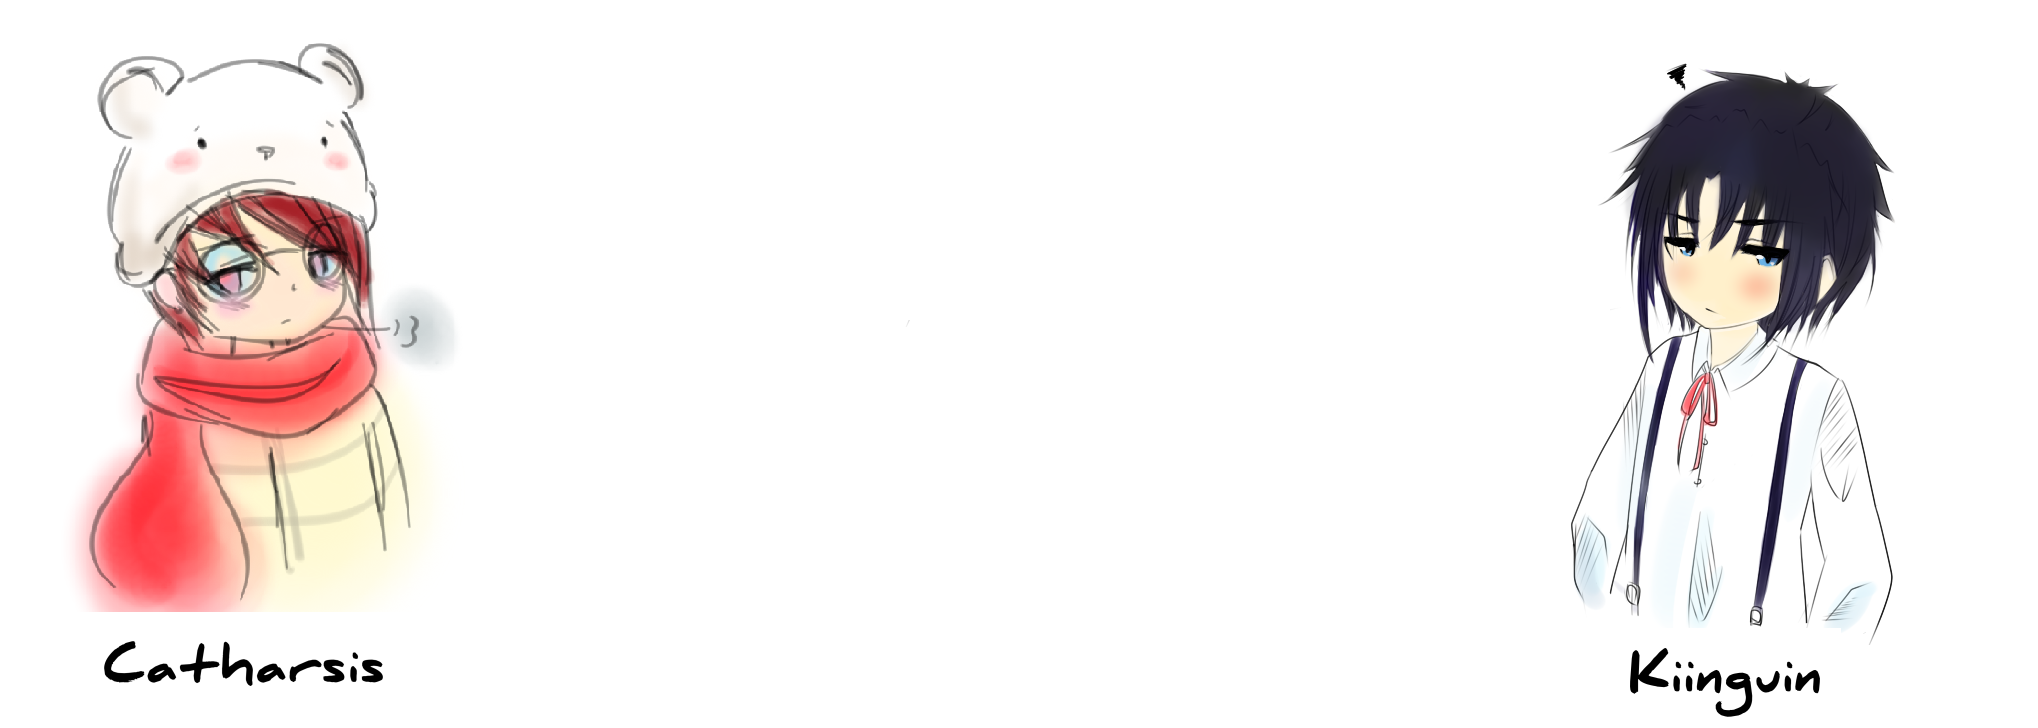
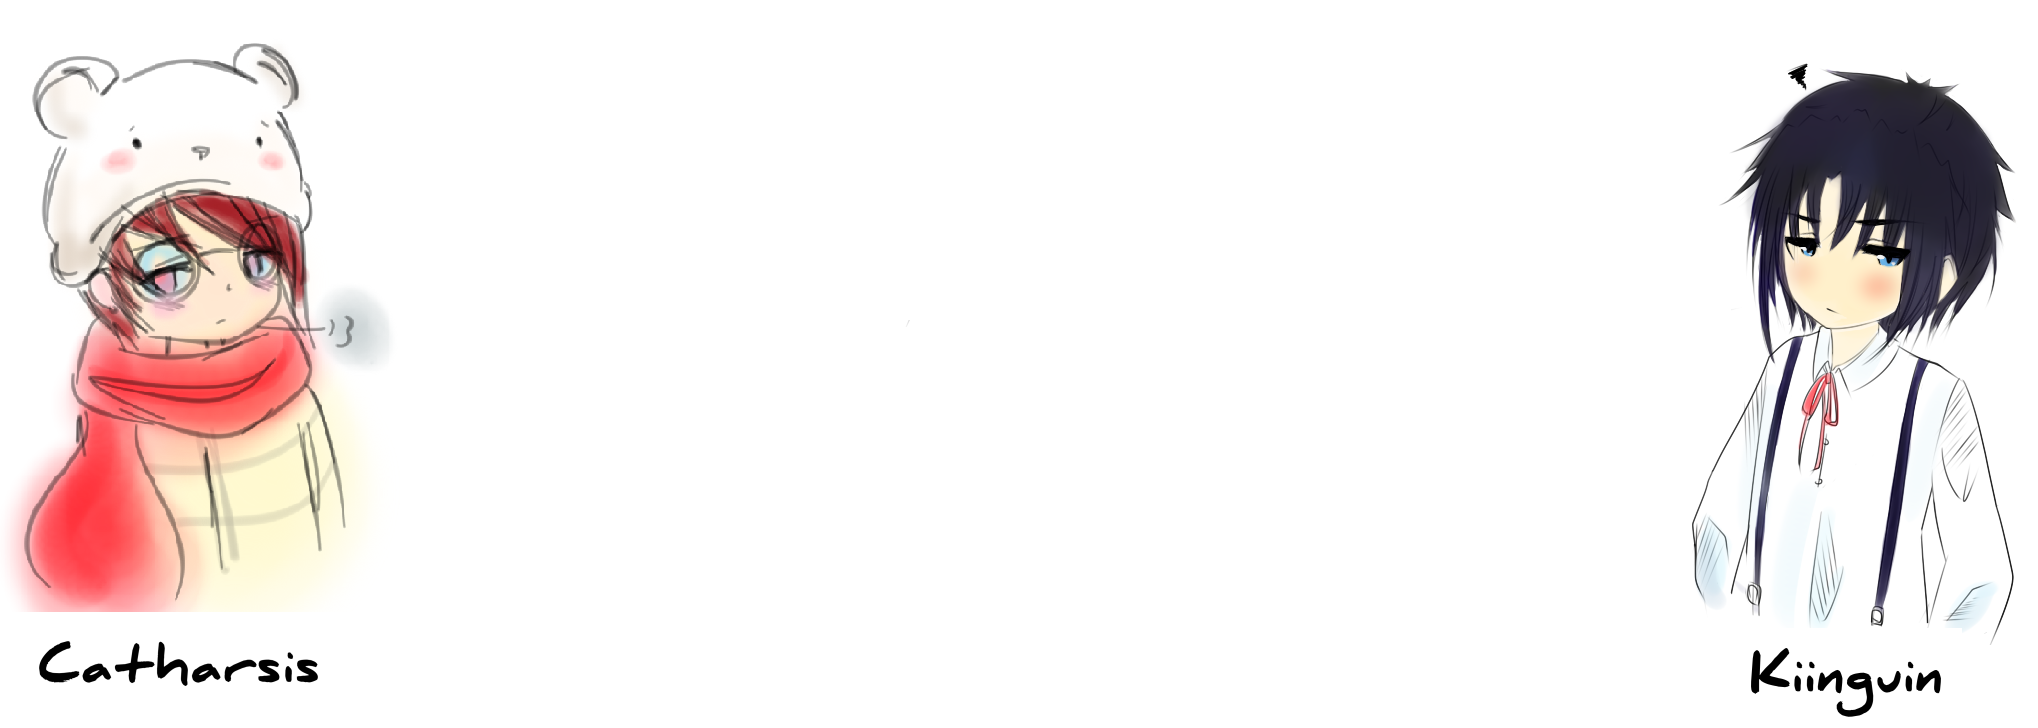
added Marksman updated background updated some other onchange code.

diff --git a/data/values.js b/data/values.js
@@ -68,6 +68,7 @@ classWep["kaiser"] = "twoHandSword";
 classWep["kanna"] = "fan";
 classWep["kinesis"] = "psylimiter";
 classWep["luminous"] = "shiningRod";
+classWep["marksman"] = "crossbow";
 classWep["mercedes"] = "bowgun";
 classWep["mihile"] = "oneHandSword";
 classWep["nightlord"] = "claw";
@@ -122,8 +123,9 @@ passiveStat["kaiser"] = {att:50, pAtt:30, pDmg:0};
 passiveStat["kanna"] = {att:30, pAtt:0, pDmg:60};
 passiveStat["kinesis"] = {att:50, pAtt:0, pDmg:0};
 passiveStat["luminous"] = {att:40, pAtt:0, pDmg:0};
-passiveStat["mihile"] = {att:80, pAtt:10, pDmg:60};
+passiveStat["marksman"] = {att:30, fDmg:0, pAtt:0, pDmg:15};
 passiveStat["mercedes"] = {att:50, pAtt:0, pDmg:50}
+passiveStat["mihile"] = {att:80, pAtt:10, pDmg:60};
 passiveStat["nightlord"] = {att:70, pAtt:0, pDmg:0};
 passiveStat["nightwalker"] = {att:60, pAtt:0, pDmg:20};
 passiveStat["phantom"] = {att:40, pAtt:0, pDmg:0};

diff --git a/script.js b/script.js
@@ -321,6 +321,12 @@
 	window.onload = function () {
 		document.getElementById('calculate').onclick = calcRange;
 		document.getElementById('class').onchange = changeClass;
+		var PStat = divToInputArray(document.getElementById('equipPStat').getElementsByTagName('div'));
+		for (var i = 0; i < PStat.length; i++){
+			PStat[i].onchange = function(){
+				document.getElementById('estmainstat').value = totalBaseStat();
+			}
+		}
 		document.getElementById('mainstat').onchange = function(){
 			document.getElementById('estmainstat').value = totalBaseStat();
 		}

diff --git a/calculator.html b/calculator.html
@@ -77,6 +77,7 @@
 					<!--<option value="kanna">Kanna</option>-->
 					<option value="kinesis">Kinesis</option>
 					<option value="luminous">Luminous</option>
+					<option value="marksman">Marksman</option>
 					<option value="mercedes">Mercedes</option>
 					<option value="mihile">Mihile</option>
 					<option value="nightlord">Night Lord</option>

diff --git a/data/masterydata.js b/data/masterydata.js
@@ -28,6 +28,7 @@ masteryData["kaiser"] = 0.9;
 masteryData["kanna"] = 0.9;
 masteryData["kinesis"] = 0.9;
 masteryData["luminous"] = 0.95;
+masteryData["marksman"] = 0.85;
 masteryData["mercedes"] = 0.95;
 masteryData["mihile"] = 0.9;
 masteryData["nightlord"] = 0.85;

diff --git a/stylesheet.css b/stylesheet.css
@@ -1,5 +1,6 @@
 body {
 	background: url("images/bg.png") no-repeat top;
+	background-size: 100%;
 }
 
 div {
